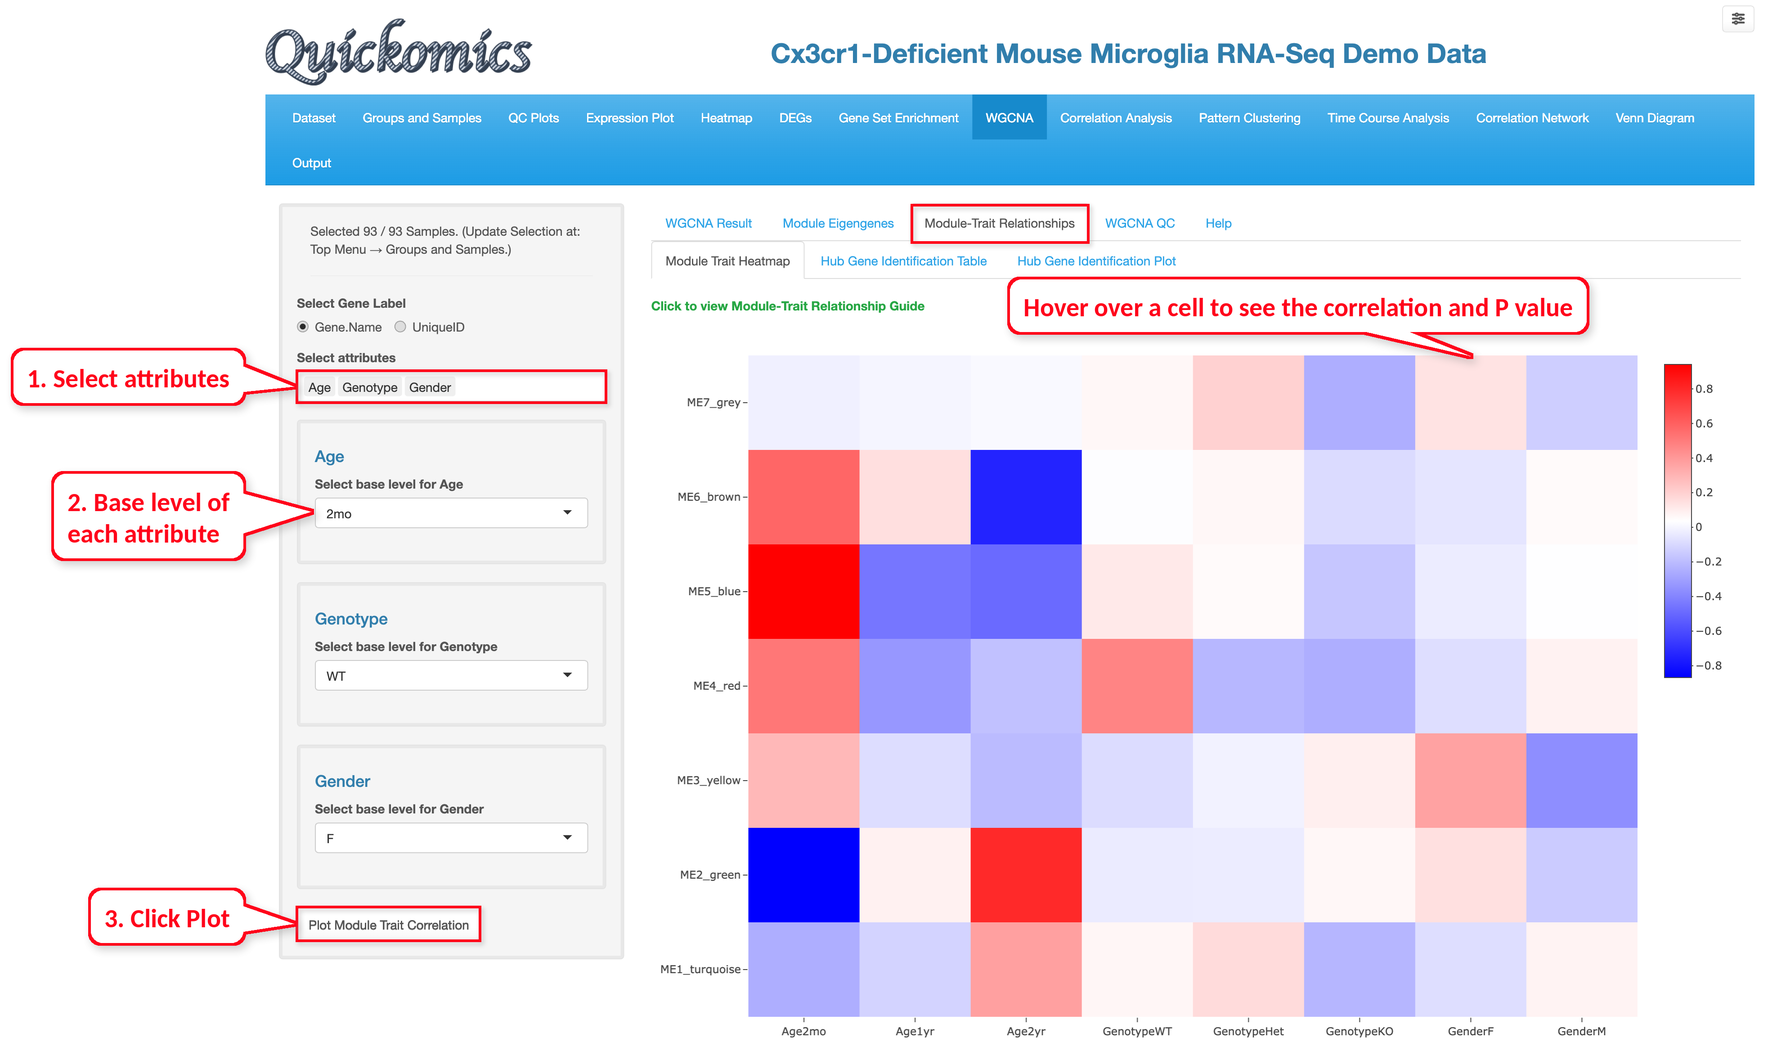
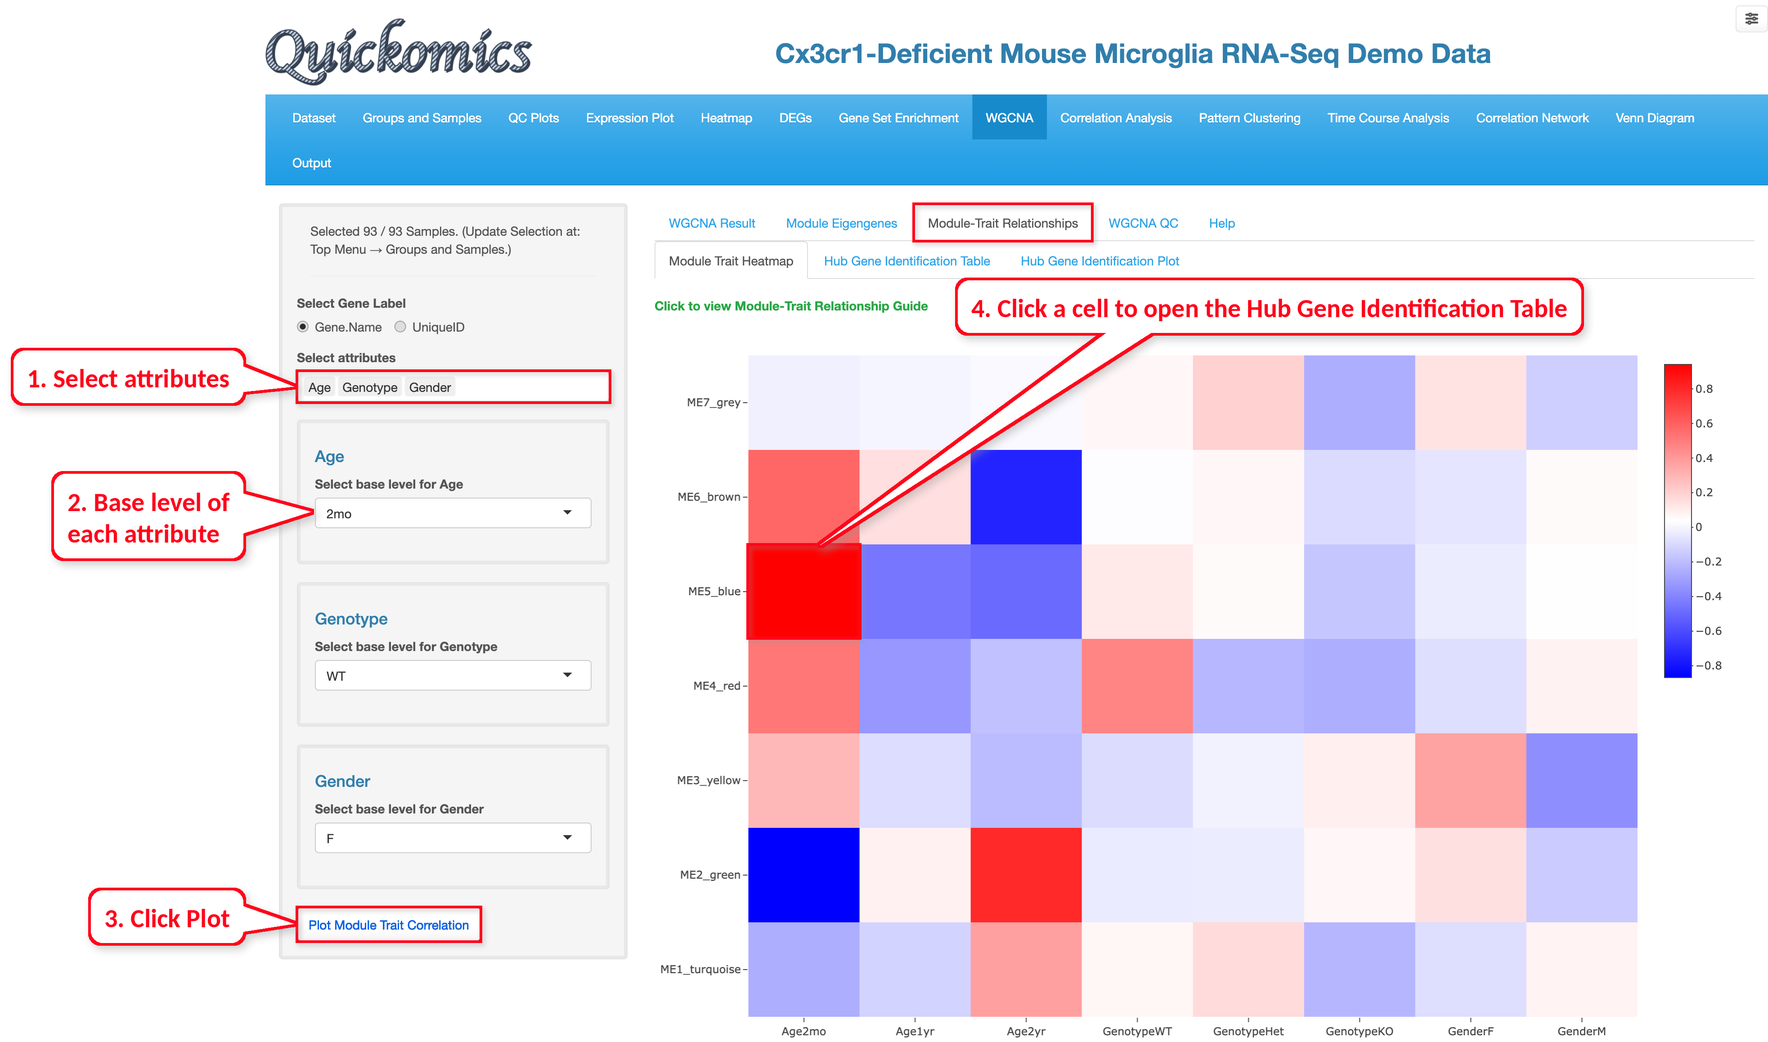
Update WGCNA chapter: eigengene table, heatmap click to hub table, linked hub plots

diff --git a/tutorial/docs/wgcna-module.html b/tutorial/docs/wgcna-module.html
@@ -230,16 +230,18 @@
 </div>
 <div id="module-eigengenes" class="section level2 hasAnchor" number="12.3">
 <h2><span class="header-section-number">12.3</span> Module Eigengenes<a href="wgcna-module.html#module-eigengenes" class="anchor-section" aria-label="Anchor link to header"></a></h2>
-<p>The “Eigengene table” sub-tab lists the eigengene value of every module in every sample. The “Eigengene Network” sub-tab shows how the modules relate to each other. In the tree at the top, modules with similar eigengenes are joined at a lower height; in the heatmap below, red means that two eigengenes are similar and blue means they are not. In the demo dataset, the blue and brown modules are joined first, and the red module is close to them.</p>
+<p>The “Eigengene table” sub-tab lists the eigengene value of every module in every sample. Each row is one sample and each column is one module. In the example below, the blue module (ME5_blue) has positive values in the 2mo samples, which matches its high correlation with Age2mo in Section 12.4. The table can be saved with “Save to output”.</p>
 <p><a href="Figures/FigureS12.3_1.png"><img src="Figures/FigureS12.3_1.png" /></a></p>
+<p>The “Eigengene Network” sub-tab shows how the modules relate to each other. In the tree at the top, modules with similar eigengenes are joined at a lower height; in the heatmap below, red means that two eigengenes are similar and blue means they are not. In the demo dataset, the blue and brown modules are joined first, and the red module is close to them.</p>
+<p><a href="Figures/FigureS12.3_2.png"><img src="Figures/FigureS12.3_2.png" /></a></p>
 </div>
 <div id="module-trait-relationships" class="section level2 hasAnchor" number="12.4">
 <h2><span class="header-section-number">12.4</span> Module-Trait Relationships<a href="wgcna-module.html#module-trait-relationships" class="anchor-section" aria-label="Anchor link to header"></a></h2>
-<p>The “Module Trait Heatmap” sub-tab correlates the eigengene of each module with the sample attributes. Select the attributes, choose a base level for each, and click “Plot Module Trait Correlation”. Each level of an attribute becomes one column of the heatmap; red cells mean that the module is higher in the samples of that level, and blue cells mean that it is lower. Hovering over a cell shows the correlation and its P value. In the example below, we selected Age, Genotype and Gender. The blue module has the strongest correlation, 0.94 with Age2mo, so its genes are higher in the 2mo samples. The green module shows the opposite pattern, with a correlation of −0.87 with Age2mo and 0.79 with Age2yr. As in the earlier chapters, Age has a much larger effect than Genotype, and the yellow module, which includes Xist and Tsix, is correlated with GenderF.</p>
+<p>The “Module Trait Heatmap” sub-tab correlates the eigengene of each module with the sample attributes. Select the attributes, choose a base level for each, and click “Plot Module Trait Correlation”. Each level of an attribute becomes one column of the heatmap; red cells mean that the genes of the module are, on average, more highly expressed in the samples of that level than in the other samples, and blue cells mean that they are less expressed. Hovering over a cell shows the correlation and its P value, and clicking a cell opens the “Hub Gene Identification Table” sub-tab with the trait and the module of that cell already selected. In the example below, we selected Age, Genotype and Gender. The blue module has the strongest correlation, 0.94 with Age2mo, so its genes are higher in the 2mo samples. The green module shows the opposite pattern, with a correlation of −0.87 with Age2mo and 0.79 with Age2yr. As in the earlier chapters, Age has a much larger effect than Genotype, and the yellow module, which includes Xist and Tsix, is correlated with GenderF.</p>
 <p><a href="Figures/FigureS12.4_1.png"><img src="Figures/FigureS12.4_1.png" /></a></p>
-<p>Hub genes are the most connected genes of a module and are often key genes of the process it represents. In the “Hub Gene Identification Table” sub-tab, select a trait and optionally a module, then click “Run”. For each gene, the table lists its connectivity within the module, its module membership (the correlation of the gene with the module eigengene) and its gene significance (the correlation of the gene with the trait), with their P values. In the example below, we selected the trait Age2mo and the blue module. The 895 genes are sorted by connectivity, and the top hub genes include several histone genes, such as Hist1h2ac, Hist4h4 and Hist1h3e.</p>
+<p>Hub genes are the most connected genes of a module and are often key genes of the process it represents. In the “Hub Gene Identification Table” sub-tab, select a trait and optionally a module, then click “Run”; when the sub-tab is opened by clicking a cell of the heatmap, the trait and module are already filled in, and only “Run” needs to be clicked. For each gene, the table lists its connectivity within the module, its module membership (the correlation of the gene with the module eigengene) and its gene significance (the correlation of the gene with the trait), with their P values. In the example below, we clicked the cell of the blue module and Age2mo in the heatmap above, so the trait Age2mo and the module ME5_blue were filled in, and then clicked “Run”. The 895 genes are sorted by connectivity, and the top hub genes include several histone genes, such as Hist1h2ac, Hist4h4 and Hist1h3e.</p>
 <p><a href="Figures/FigureS12.4_2.png"><img src="Figures/FigureS12.4_2.png" /></a></p>
-<p>The “Hub Gene Identification Plot” sub-tab shows the same results as two plots. The left plot compares the module membership and the gene significance of each gene; in the blue module they are highly correlated (cor = 0.968), which means that the genes most central to the module are also the most related to Age2mo. The right plot shows the connectivity of each gene against its module membership, and the top 10% most connected genes, the hub genes, are shown in red.</p>
+<p>The “Hub Gene Identification Plot” sub-tab shows the same results as two plots. Both plots are made by the same “Run” as the table, for the same trait and module, and each dot is one of the 895 genes in the table; hovering over a dot shows its row of the table. In the example below, the dot at the top right of the right plot is Hist1h2ac, the first gene of the table. The left plot compares the module membership and the gene significance of each gene; in the blue module they are highly correlated (cor = 0.968), which means that the genes most central to the module are also the most related to Age2mo. The right plot shows the connectivity of each gene against its module membership, and the top 10% most connected genes, the hub genes, are shown in red; they are the genes at the top of the table.</p>
 <p><a href="Figures/FigureS12.4_3.png"><img src="Figures/FigureS12.4_3.png" /></a></p>
 
 </div>
